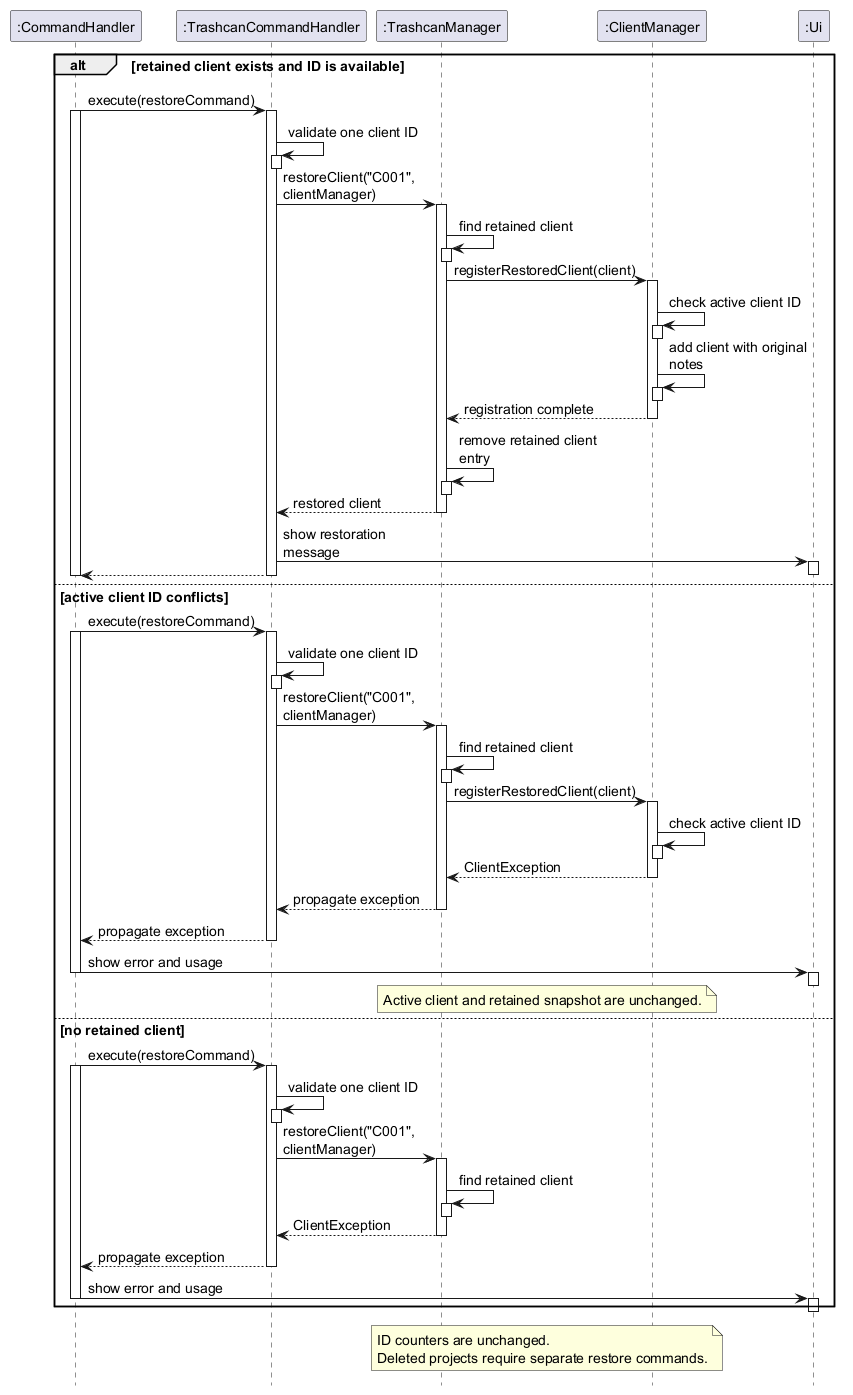
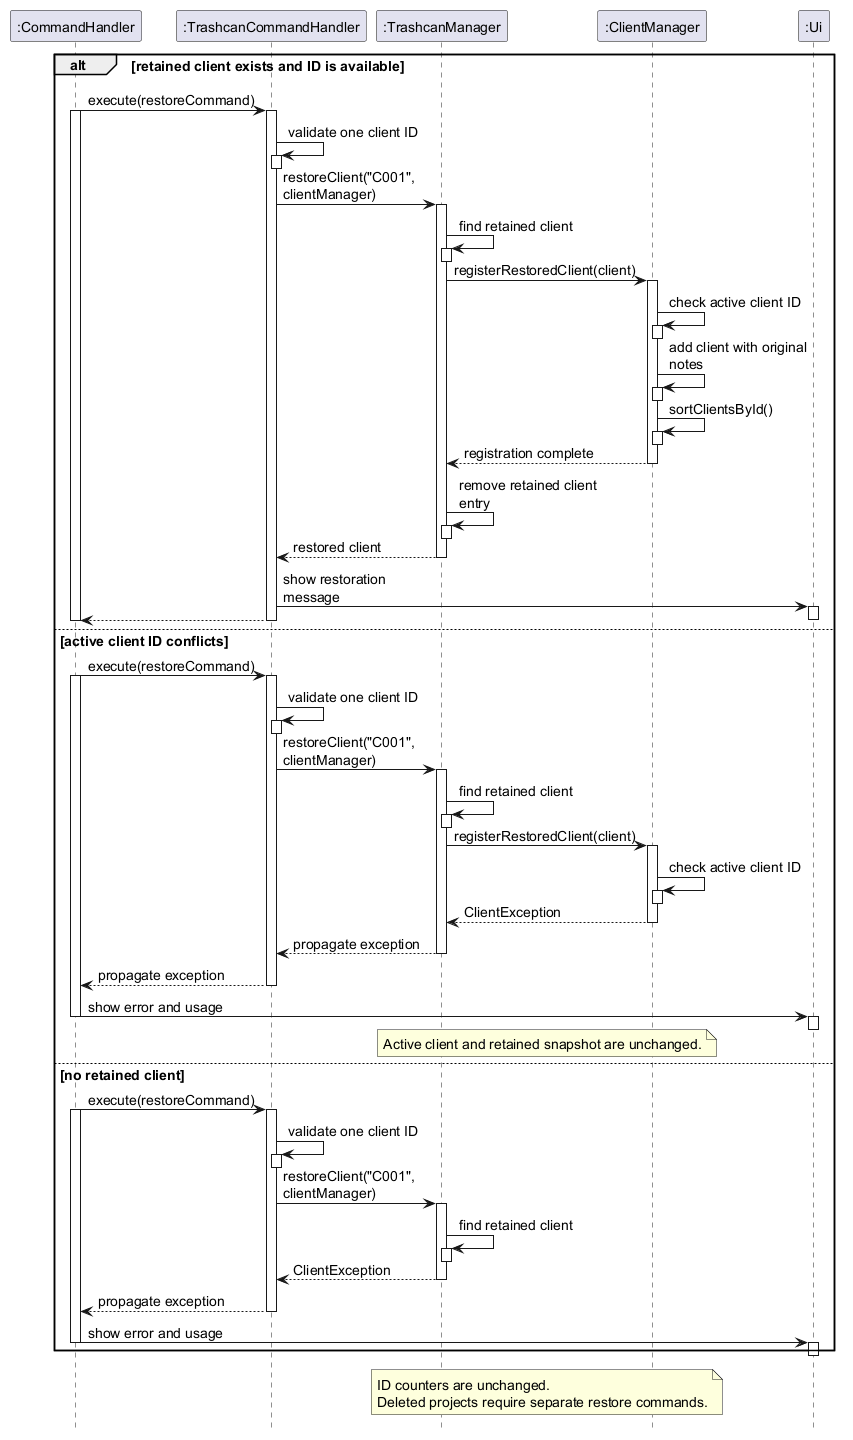
Update DG to include new bug fixes and add user stories

diff --git a/docs/DeveloperGuide.md b/docs/DeveloperGuide.md
@@ -26,7 +26,7 @@ The class diagram below shows the model classes involved.
 
 ![Class diagram of projects, tasks and events](images/CreationModelClassDiagram.png)
 
-* `ProjectManager` keeps active projects in insertion order and assigns IDs. A restored project is appended; after a restart, projects are loaded in numeric ID order. It has a separate counter for each ID type: `P001` for projects, `T001` for tasks and `E001` for events. Task and event IDs are unique across the whole application, not just within one project, so later commands such as `task.mark T001` do not need a project ID.
+* `ProjectManager` keeps active projects in a `LinkedHashMap` and assigns IDs. New projects are appended; restoration reorders the map by numeric project ID, and saved projects are loaded in that order. It has a separate counter for each ID type: `P001` for projects, `T001` for tasks and `E001` for events. Task and event IDs are unique across the whole application, not just within one project, so later commands such as `task.mark T001` do not need a project ID.
 * `Project` owns two separate lists, one of `Task` objects and one of `Event` objects. `getTasks()` and `getEvents()` return unmodifiable copies, so other classes cannot change a project's items without going through `Project`.
 * `Task` and `Event` extend the abstract class `ScheduledItem`, which holds the fields they share: ID, owning project, description and date.
 * `ProjectManager` checks that a client exists through the `ClientLookup` interface, which `ClientManager` implements.
@@ -107,7 +107,7 @@ and client IDs; these assertions check internal lookup consistency, while except
 invalid user input. `Ui` reads the task and event lists and formats them separately. Neither
 viewing nor counting changes the model.
 
-With no ID or with `all`, the handler obtains the projects in insertion order from
+With no ID or with `all`, the handler obtains the projects in numeric ID order from
 `ProjectManager#getProjects` and prints each summary with one blank line between them. An empty
 collection produces `No projects found.`. An unknown single ID produces a user-facing error
 and usage hint without ending the command loop. Diagnostics at `FINE` level record the requested
@@ -125,7 +125,7 @@ identify work that needs attention. The listing and query commands are read-only
 text. `CommandHandler#routeCommand` then delegates the five actions to their
 corresponding handlers:
 
-* `project.list` obtains all projects in creation order. Extra arguments
+* `project.list` obtains all projects in numeric ID order. Extra arguments
   are ignored, so the command remains convenient to use interactively.
 * `project.status PROJECT_ID STATUS` requires exactly one project ID and one
   status. `CommandHandler#parseProjectStatus` accepts `active`, `paused`,
@@ -141,14 +141,15 @@ shows the relevant usage format and continues accepting commands.
 
 #### Model and UI responsibilities
 
-`ProjectManager` stores projects in insertion order. Its query methods return
+`ProjectManager` stores projects in a `LinkedHashMap`, reordered by numeric ID after
+restoration. Its query methods return
 new list snapshots rather than exposing the internal collection:
 
-* `getProjects()` supports the creation-order output of `project.list`.
+* `getProjects()` supports the numeric-ID-order output of `project.list`.
 * `changeProjectStatus()` changes only the status of an existing project.
 * `getProjectsByStatus()` filters projects without modifying them.
 * `getProjectsByDeadline()` sorts by the earliest deadline while preserving
-  creation order for projects with the same deadline.
+  numeric ID order for projects with the same deadline.
 * `getOverdueActiveProjects()` selects active projects whose deadlines are
   before the supplied date.
 
@@ -343,7 +344,7 @@ Client management lets freelancers register clients and keep notes about their p
 * `client.add name/CLIENT_NAME` registers a client and displays the assigned ID.
 * `client.note CLIENT_ID text/NOTE` appends a note to an existing client.
 * `client.view CLIENT_ID` displays a client's ID, name and all recorded notes.
-* `client.list` displays every client's ID and name in insertion order. Restored clients are appended; after a restart, clients load in numeric ID order.
+* `client.list` displays every client's ID and name in numeric ID order. Restoration reorders the active map by numeric client ID, and clients load in that order after a restart.
 
 For example, `client.add name/Acme Studio` can create `C001`, after which `client.note C001 text/Prefers weekly updates` records a preference for that client. IDs are case-sensitive; two clients may have the same name but receive different IDs.
 
@@ -351,8 +352,8 @@ For example, `client.add name/Acme Studio` can create `C001`, after which `clien
 
 * `CommandHandler` parses the command through `CommandParser` and delegates client addition, viewing, listing, search, editing and note addition to `ClientCommandHandler`. Client and note deletion remain in `CommandHandler` because they use its pending-confirmation state. It also handles errors through the shared `Ui`.
 * `ClientCommandHandler` selects the client operation, validates its argument structure and calls `ClientManager`. It reuses `ArgumentParser` for the `name/` and `text/` arguments.
-* `ClientManager` owns a `LinkedHashMap<String, Client>` and the next client number. It creates clients, looks them up by ID and directs notes to their owner. The map preserves creation order while supporting ID lookup without scanning every client.
-* `Client` holds an immutable ID and name, and an append-only list of notes. Its constructor and `addNote` method reject null or blank values and trim surrounding whitespace.
+* `ClientManager` owns a `LinkedHashMap<String, Client>` and the next client number. It creates clients, looks them up by ID and directs notes to their owner. New clients are appended, and restoration reorders the map by numeric ID. ID lookup does not require scanning every client.
+* `Client` holds an immutable ID, an editable name and an ordered list of notes. Notes can be appended or deleted by position; deleting the client clears its original notes after retaining a snapshot. Its constructor, `setName` and `addNote` reject null or blank values and trim surrounding whitespace.
 * `ClientUi` formats client responses and sends them through the shared `Ui#showMessage`, keeping output formatting separate from command parsing and model changes.
 
 `ClientManager` implements `ClientLookup`, allowing `ProjectManager` to check whether a client exists without depending on client command handling. The application uses the same client manager for command handling and project lookup, so a newly registered client can immediately be used by `project.add`. Callers that need this integration should use the four-argument `CommandHandler` constructor with the shared manager; the three-argument constructor creates an independent client manager.
@@ -389,7 +390,7 @@ Names and notes preserve internal spaces and ordinary slash-containing text such
 
 `client.view` requires exactly one positional ID. The handler calls `ClientManager#getClient`, then `ClientUi#showClient` prints the ID and name followed by each note in insertion order as `Note 1: ...`, `Note 2: ...` and so on. These one-based positions are used by `client.delete_note`. A client without notes displays `Notes: No notes found.`. Leading and trailing whitespace around an ID is trimmed, but its case and digits must match an existing ID.
 
-`client.list` calls `ClientManager#getClients`, which returns `List.copyOf(clients.values())`. `ClientUi#showClients` prints numbered entries in insertion order, or `No clients found.` when the collection is empty. Listing omits notes; users can request them through `client.view`. Extra arguments to `client.list` are ignored, matching the application's convention for commands without parameters.
+`client.list` calls `ClientManager#getClients`, which returns `List.copyOf(clients.values())`. `ClientUi#showClients` prints numbered entries in numeric client ID order, or `No clients found.` when the collection is empty. Listing omits notes; users can request them through `client.view`. Extra arguments to `client.list` are ignored, matching the application's convention for commands without parameters.
 
 Both `getClients()` and `Client#getNotes()` return unmodifiable snapshots of their collections. Callers cannot add or remove entries through these lists. The client snapshot still contains references to the existing `Client` objects; it is not a deep copy of their state.
 
@@ -466,6 +467,11 @@ While confirmation is pending:
 * Commands such as `help`, `save` and `exit` are treated as confirmation answers.
 * End of input cancels the operation before the application attempts to save.
 
+Answers are trimmed but case-sensitive: ` yes ` is accepted, while `YES`, `Yes` and
+`yes please` are invalid. For individual records, the pending selection is cleared
+before calling the model. If that call fails, the error is reported and the user must
+issue a new deletion command; the failed operation does not remain pending.
+
 `BusyNotFree#run` checks `isAwaitingDeletionConfirmation()` before displaying the normal
 prompt or handling `save`. `CommandHandler#execute` makes the same check before parsing
 commands. Together, these checks prevent another CLI command from replacing the selected
@@ -499,6 +505,13 @@ calls `TrashcanManager#storeProject`.
 project. `Project#copy` constructs a new project and new task and event objects. It
 preserves identifiers, descriptions, dates, project status and task completion flags.
 Each copied activity refers to the copied project.
+
+The package-private `ProjectIdValidator#validate` performs the shared collision check.
+`TrashcanManager#storeProject` checks against retained projects, while
+`ProjectManager#validateProjectIds` delegates to the same utility for restoration and
+storage import against active projects. A duplicate project, task or event ID raises
+`ProjectException` before either collection changes. This utility is omitted from the
+class diagram, which focuses on retained references and restoration dependencies.
 
 Only after snapshot storage succeeds does deletion clear the original project's
 activities and remove it from the active map. This ordering avoids removing active data
@@ -540,6 +553,10 @@ from changes made by callers. `Ui#showTrashcan` displays project details, tasks 
 followed by deleted clients and their notes. If both collections are empty, it displays
 `Trashcan is empty.`
 
+`trashcan.list` rejects extra arguments before reading or displaying entries and shows
+`Format: trashcan.list`. Listing and restoration do not request confirmation; only
+deletion and permanent emptying use the pending-confirmation state.
+
 `trashcan.restore PROJECT_ID/CLIENT_ID` requires exactly one ID; the slash denotes
 alternatives, not literal input. `TrashcanCommandHandler#handleRestore` rejects missing
 or multiple IDs before checking the case-sensitive `P[0-9]{3,}` or `C[0-9]{3,}` format.
@@ -556,12 +573,15 @@ collection. Only after registration succeeds does the trashcan remove its entry.
 failed registration therefore leaves the project available for a later restoration attempt.
 
 The restored project retains its original activities and their ownership references.
-Restoration appends the project to the active collection without allocating new IDs or
-advancing counters. A second restore request for the same ID fails because the entry is
-no longer in the trashcan.
+`ProjectManager#sortProjectsById` reorders the active map by the numeric portion of each
+project ID after registration, without allocating new IDs or advancing counters. This
+puts a restored P001 before P002 immediately, including in `project.list`, `project.view all`
+and equal-deadline results. Numeric comparison also puts P999 before P1000. A second
+restore request for the same ID fails because the entry is no longer in the trashcan.
 
-The sequence diagram focuses on registration. Command argument validation and the initial
-trash lookup must already have succeeded. Validation failures are summarized as one branch.
+The sequence diagram shows successful registration and a registration failure as separate
+alternatives. Both include the validated command and retained-project lookup; failures such
+as an inactive client or conflicting ID are summarized as one branch.
 
 ![Sequence diagram of project restoration](images/ProjectRestoreSequenceDiagram.png)
 
@@ -571,6 +591,11 @@ active before inserting the snapshot into the active map. Only after successful
 registration does the trashcan remove its entry. The original client ID, name, note
 order and duplicate note text are preserved; ID counters do not change. Active clients
 with the same name but different IDs do not prevent restoration.
+
+`ClientManager#sortClientsById` reorders the active client map after registration.
+`client.list` and `client.find` therefore show a restored C001 before C002 immediately,
+and numeric comparison puts C999 before C1000. The restoration message includes the
+number of retained notes; project restoration reports task and event counts.
 
 ![Sequence diagram of client restoration](images/ClientRestoreSequenceDiagram.png)
 
@@ -627,10 +652,11 @@ Deleted projects may refer to deleted clients while retained in the trashcan. Lo
 accepts this relationship, but restoration still requires the client to be active.
 
 Older files without a trash section load with an empty trashcan. Active clients and
-projects are written in numeric ID order because restoring older records can append
-them after newer records in memory, while the loader reconstructs IDs in ascending
-order. `DataStorage#save` sorts snapshots for serialization without changing the
-in-memory insertion order.
+projects are written in numeric ID order, matching the loader's reconstruction of IDs
+in ascending order. Restoration already sorts the active maps; `DataStorage#save`
+also sorts the lists it serializes without changing the in-memory collections.
+Malformed saved data, including conflicting IDs, is wrapped in an `IOException`;
+`BusyNotFree#main` reports the load error and returns without starting a command loop.
 
 Deletion, restoration and trashcan emptying change in-memory data. The existing `save` and `exit` paths
 persist those changes using the temporary-file replacement described in the persistence
@@ -680,6 +706,12 @@ and rejection of conflicting active IDs without losing the retained client.
 [`TrashcanCommandHandlerTest`](../src/test/java/busynotfree/command/TrashcanCommandHandlerTest.java)
 verifies delegated parsing and response behavior.
 
+[`ProjectRestoreOrderingTest`](../src/test/java/busynotfree/model/ProjectRestoreOrderingTest.java)
+and [`ClientRestoreOrderingTest`](../src/test/java/busynotfree/model/ClientRestoreOrderingTest.java)
+verify immediate numeric ordering after restoring an older record, IDs beyond three
+digits, preserved record state and counters, and ordering after saving and loading.
+Project checks include equal-deadline ordering; client checks include name-search ordering.
+
 Deletion tests in [`CommandHandlerTest`](../src/test/java/busynotfree/command/CommandHandlerTest.java)
 and [`ClientCommandHandlerTest`](../src/test/java/busynotfree/command/ClientCommandHandlerTest.java)
 cover invalid IDs, invalid note indexes, confirmation, cancellation and preservation of
@@ -705,6 +737,12 @@ The standalone `help` command is recognized by `CommandHandler#execute` before d
 parsing and delegates to `Ui#showHelp`. The UI lists command names and short descriptions
 without changing application data. While deletion confirmation is pending, `help` is handled
 as a confirmation answer, preserving the selected operation.
+
+Recognition requires the exact lowercase word after trimming whitespace: ` help ` is
+accepted, but `HELP` or `help extra` reaches dotted-command parsing and produces an error.
+`Ui#showHelp` includes deletion, trashcan, save and exit commands. Confirmation tests in
+`CommandHandlerTest` and `ClientCommandHandlerTest` verify that `help` cannot replace
+a pending deletion.
 
 Assertions document internal assumptions, including consistent activity-removal counts and
 the absence of a deleted project from the active map. They help expose implementation errors
@@ -768,6 +806,12 @@ easy to reference from later commands.
 |v2.0|user|find a to-do item by name|locate a to-do without having to go through the entire list|
 |v2.0|freelancer responding to changes in client requirements|edit an existing task's description and date without changing its ID or project|keep the work plan accurate|
 |v2.0|freelance consultant arranging client meetings|edit an existing event's description and date without changing its ID or project|update a rescheduled meeting without deleting and recreating it|
+|v2.0|freelancer|confirm or cancel deletion of a project, client, task, event or note|avoid removing records accidentally|
+|v2.0|freelancer|prevent deletion of a client with active projects|preserve the projects' client relationships|
+|v2.0|freelancer|list and restore deleted projects and clients with their original contents and IDs|recover removed work without recreating its relationships|
+|v2.0|freelancer|keep restored clients and projects in numeric ID order|find older records in a predictable position|
+|v2.0|freelancer|retain deleted projects and clients across restarts|recover them in a later session|
+|v2.0|freelancer|permanently empty the trashcan after confirmation|discard retained records I no longer need|
 
 ## Non-Functional Requirements
 
@@ -834,6 +878,46 @@ For deletion commands, enter `yes` or `no` when prompted. Invalid commands
 should display an error and leave the affected record unchanged. The automated
 verification suite can be run with `.\gradlew.bat check`; it compiles the
 project, runs the tests, and runs Checkstyle.
+
+### Deletion validation, confirmation and recovery
+
+Use a fresh, writable test directory and the [User Guide's startup instructions](UserGuide.md#quick-start).
+Create client C001 with two identical notes and two projects, P001 and P002. Add tasks
+T001 and T002 and events E001 and E002 to P001. Add task T003 to P002. Mark T001 complete.
+The following checks use these IDs; substitute the displayed IDs if needed.
+
+1. Enter `help` and verify that all five deletion commands and all three trashcan commands
+   appear. Enter `project.delete`, `task.delete T999`, `event.delete E999`,
+   `client.delete C999` and `client.delete_note C001 index/0`. Each must show an error
+   and the relevant format without requesting confirmation or changing data. Also try
+   note indexes `abc`, `3` and `999999999999`; all must be rejected.
+2. Enter `client.delete C001`. It must fail without requesting confirmation because
+   the client has active projects. Change both project statuses to `completed` and retry;
+   deletion must still fail, since completed projects remain active records.
+3. Enter `task.delete T001`. Check that the prompt identifies T001 and P001. Enter
+   `YES`, `help`, `save` and `exit`; each must report an invalid confirmation answer and
+   repeat the prompt. Enter `no`, then view P001; both tasks and events must remain.
+   Repeat `task.delete T001`, followed by `yes`. Only T001 must disappear, and progress
+   must become `0 of 1 task completed.`. T003 in P002 must remain unchanged.
+4. Enter `event.delete E001`, then `no`; both events must remain. Repeat with `yes`;
+   only E001 must disappear. Enter `client.delete_note C001 index/1`, then `no`; both
+   identical notes must remain. Repeat with `yes`; one copy must remain as `Note 1`.
+   `trashcan.list` must still report an empty trashcan: individual activities and notes
+   are not retained.
+5. Enter `project.delete P001`, then `no`; P001 must remain. Repeat with `yes`; P001
+   must leave the active list, while P002 and T003 remain. `trashcan.list` must show P001
+   with T002 and E002. Enter `trashcan.list extra`; expect an error and format hint.
+   Restore P001 and verify that it appears before P002 immediately and retains only
+   T002 and E002. Restoration must not bring back T001, E001 or the removed client note.
+6. Delete both projects with confirmation. Enter `client.delete C001`, then `no`;
+   the client and remaining note must stay active. Repeat with `yes`; the retained client
+   must contain that note. Create client C002, restore C001, then run `client.list`;
+   C001 must appear before C002 immediately. Restore P001 and P002, then enter `save`
+   and restart. Verify the restored records and absence of individually deleted items.
+
+The following restoration and emptying scenarios cover additional persistence and
+confirmation paths. End-of-input cancellation is exercised by `BusyNotFreeTest`, which
+can close a simulated input stream immediately after requesting deletion.
 
 ### Client restoration and persistence
 
